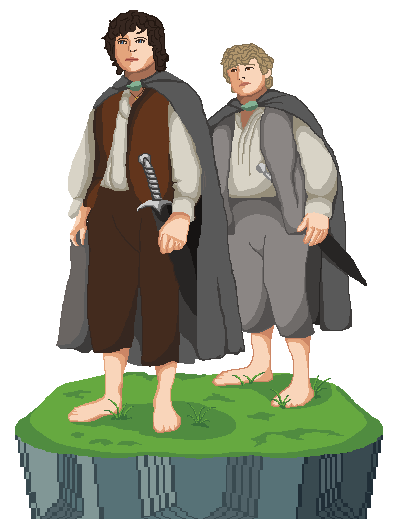
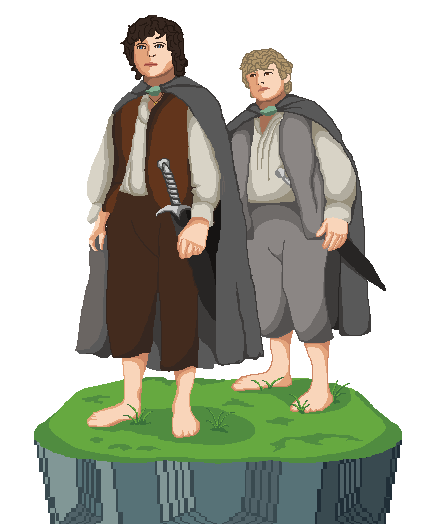
Add team selection & menu UI; wire menu toggle
Add a new TeamSelection scene and a MenuOptions scene (UI for pause/menu). Update inGameScene.tscn to include the menu instance and keep it hidden by default. Update InGameScene.cs to expose _menuUI, hook the %Menu button, and toggle the menu visibility (existing Help UI handling retained). Also replace/modify frodoTeam.png and sauronTeam.png assets referenced by the new team selection scene.

diff --git a/creeper/InGameUI_scripts/InGameScene.cs b/creeper/InGameUI_scripts/InGameScene.cs
@@ -4,12 +4,23 @@ using System;
 public partial class InGameScene : CanvasLayer
 {
 	private Control _helpUI;
+	private Control _menuUI;
 	
 	public override void _Ready(){
+		
+		//GET THE HELP BUTTON
 		GetNode<Button>("%Help").Pressed += OnHelpButtonPressed;
 		_helpUI = GetNode<Control>("HelpUI");
+		
+		//GET THE MENU BUTTON
+		GetNode<Button>("%Menu").Pressed += OnMenuButtonPressed;
+		_menuUI = GetNode<Control>("MenuUI");
 	}
 	private void OnHelpButtonPressed(){
 		_helpUI.Visible = !_helpUI.Visible;
+	}
+	
+	private void OnMenuButtonPressed(){
+		_menuUI.Visible = !_menuUI.Visible;
 	}
 }
